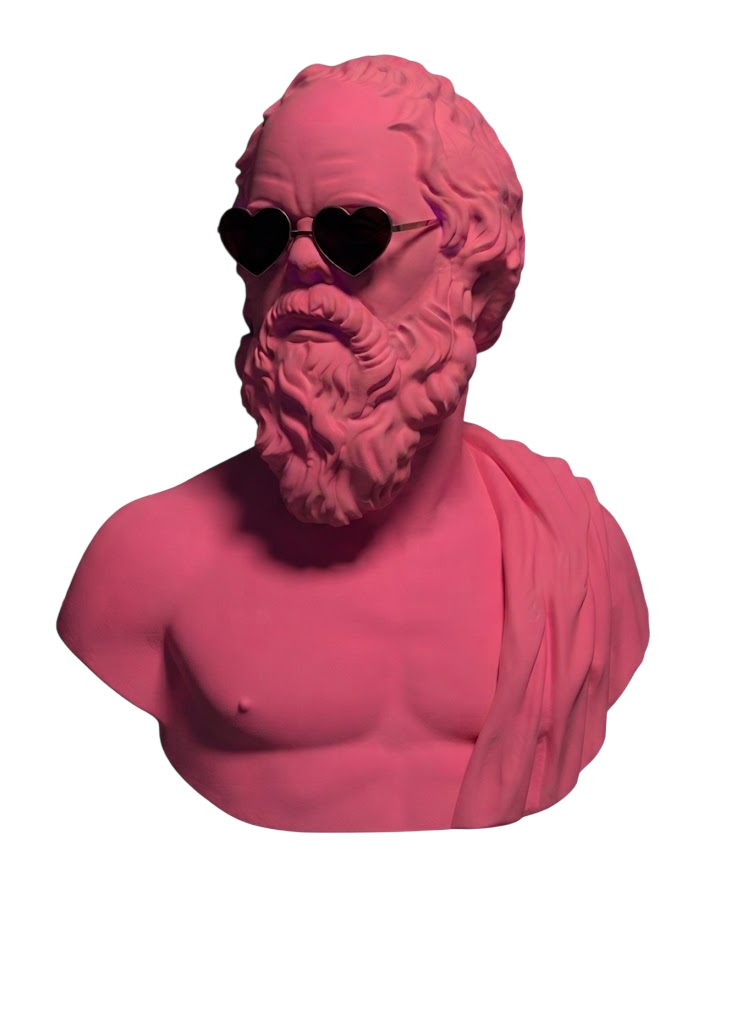
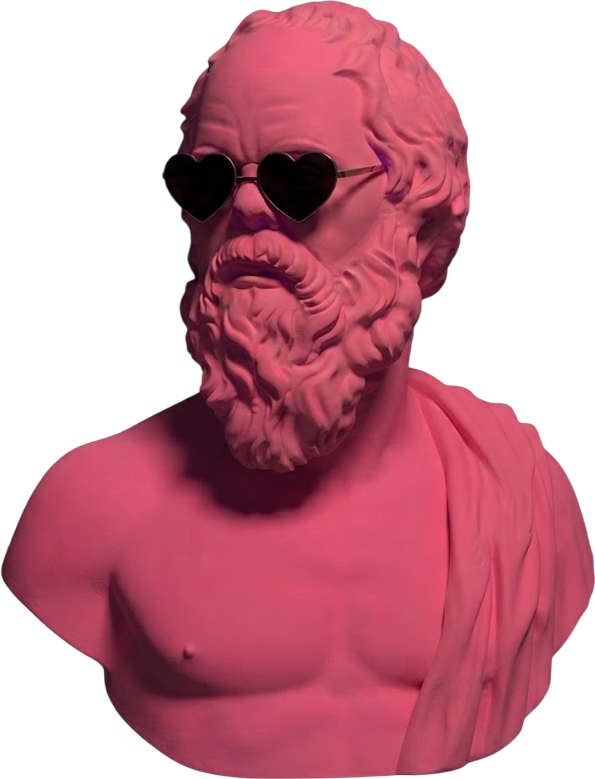
feat: enhance Resenas component with new header and update carousel layout

diff --git a/artifacts/clark-kent/src/index.css b/artifacts/clark-kent/src/index.css
@@ -1856,13 +1856,12 @@ body {
 .resenas-heading {
   font-family: 'Cormorant Garamond', 'Cormorant', Georgia, serif;
   font-weight: 700;
-  font-size: clamp(32px, 4vw, 60px);
-  line-height: 1.02;
+  font-size: clamp(30px, 4.4vw, 64px);
+  line-height: 1;
   letter-spacing: -0.01em;
   color: #000000;
   text-transform: uppercase;
-  white-space: normal;
-  text-wrap: balance;
+  white-space: nowrap;
   margin: 0;
 }
 
@@ -1882,13 +1881,13 @@ body {
   gap: 32px;
 }
 
-/* ── Carousel layout: heading + review card (left) + portrait (right) ── */
+/* ── Carousel layout: review card (left) + portrait (right) ── */
 .resenas-carousel {
   display: grid;
   grid-template-columns: 1fr 42%;
-  align-items: stretch;
+  align-items: end;
   gap: 40px;
-  min-height: 520px;
+  min-height: 560px;
 }
 
 .resenas-carousel-left {
@@ -1897,15 +1896,21 @@ body {
   align-items: flex-start;
   justify-content: center;
   gap: 24px;
+  height: 100%;
 }
 
-/* Keep each review card at its original size (not stretched to fill column) */
+/* Keep each review card at its original size, content centered */
 .resena-card--carousel {
   width: 100%;
   max-width: 380px;
   min-height: 300px;
+  align-items: center;
+  text-align: center;
   animation: resenaFade 0.3s ease;
 }
+.resena-card--carousel .resena-stars { justify-content: center; }
+.resena-card--carousel .resena-quote { text-align: center; }
+.resena-card--carousel .resena-author { align-items: center; text-align: center; }
 @keyframes resenaFade {
   from { opacity: 0; transform: translateY(8px); }
   to   { opacity: 1; transform: translateY(0); }
@@ -1966,13 +1971,14 @@ body {
   position: relative;
   align-self: stretch;
   height: 100%;
+  overflow: hidden;
 }
 .resenas-portrait {
   position: absolute;
   left: 50%;
   bottom: 0;
   transform: translateX(-50%);
-  height: 108%;
+  height: 115%;
   width: auto;
   max-width: none;
   display: block;
@@ -3121,12 +3127,12 @@ body {
 /* ── Media queries ───────────────────────────────────────── */
 @media (max-width: 768px) {
   .resenas-grid        { grid-template-columns: 1fr; }
+  .resenas-heading     { white-space: normal; text-wrap: balance; }
   .resenas-carousel    { grid-template-columns: 1fr; gap: 24px; min-height: 0; }
-  .resenas-carousel-left { align-items: center; }
-  .resenas-carousel-left .resenas-header { align-items: center; text-align: center; }
+  .resenas-carousel-left { align-items: center; height: auto; }
   .resena-card--carousel,
   .resenas-nav         { max-width: 460px; }
-  .resenas-carousel-right { order: -1; position: static; height: auto; display: flex; justify-content: center; }
+  .resenas-carousel-right { order: -1; position: static; height: auto; overflow: visible; display: flex; justify-content: center; }
   .resenas-portrait    { position: static; transform: none; height: auto; width: auto; max-width: 240px; }
   .port-section        { grid-template-columns: 1fr; }
   .contacto-inner      { grid-template-columns: 1fr; gap: 48px; }

diff --git a/artifacts/clark-kent/src/Resenas.tsx b/artifacts/clark-kent/src/Resenas.tsx
@@ -99,20 +99,20 @@ export default function Resenas() {
       </svg>
 
       <div className="resenas-inner" style={{ paddingTop: 60 }}>
-        <div className="resenas-carousel">
-          {/* LEFT — heading + single review card carousel */}
-          <div className="resenas-carousel-left">
-            <div className="resenas-header">
-              <h2 className="resenas-heading">
-                {lang === "es" ? "Lo que dicen nuestros clientes." : "What our clients say."}
-              </h2>
-              <p className="resenas-sub">
-                {lang === "es"
-                  ? "Clientes satisfechos que hablan de nuestro trabajo."
-                  : "Satisfied clients who speak about our work."}
-              </p>
-            </div>
+        <div className="resenas-header">
+          <h2 className="resenas-heading">
+            {lang === "es" ? "Lo que dicen nuestros clientes." : "What our clients say."}
+          </h2>
+          <p className="resenas-sub">
+            {lang === "es"
+              ? "Clientes satisfechos que hablan de nuestro trabajo."
+              : "Satisfied clients who speak about our work."}
+          </p>
+        </div>
 
+        <div className="resenas-carousel">
+          {/* LEFT — single review card carousel */}
+          <div className="resenas-carousel-left">
             <div className="resena-card resena-card--carousel" key={active}>
               <Stars count={current.stars} lang={lang} />
               <blockquote className="resena-quote">"{current.quote}"</blockquote>
